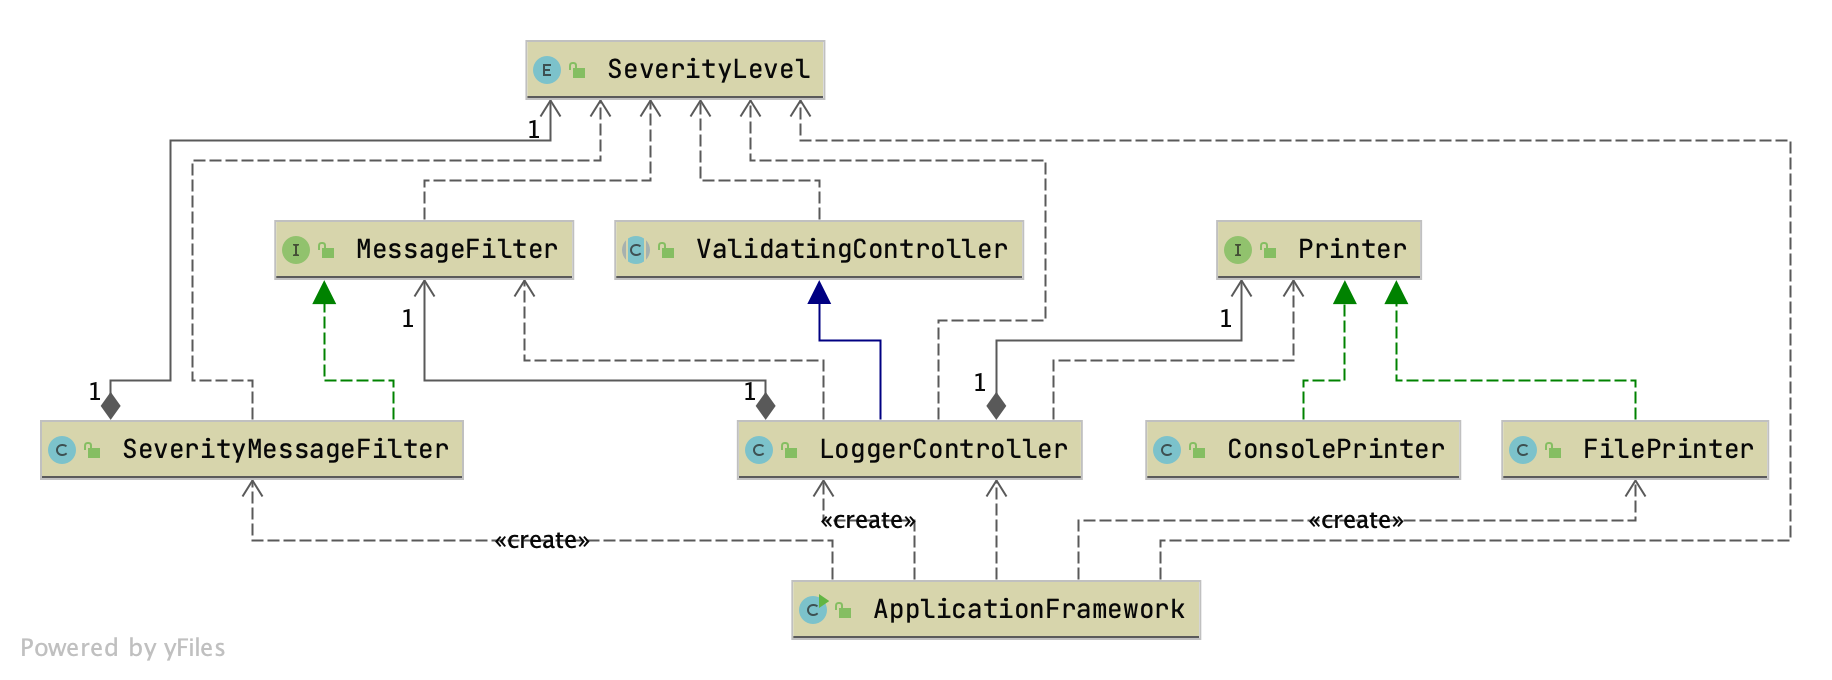
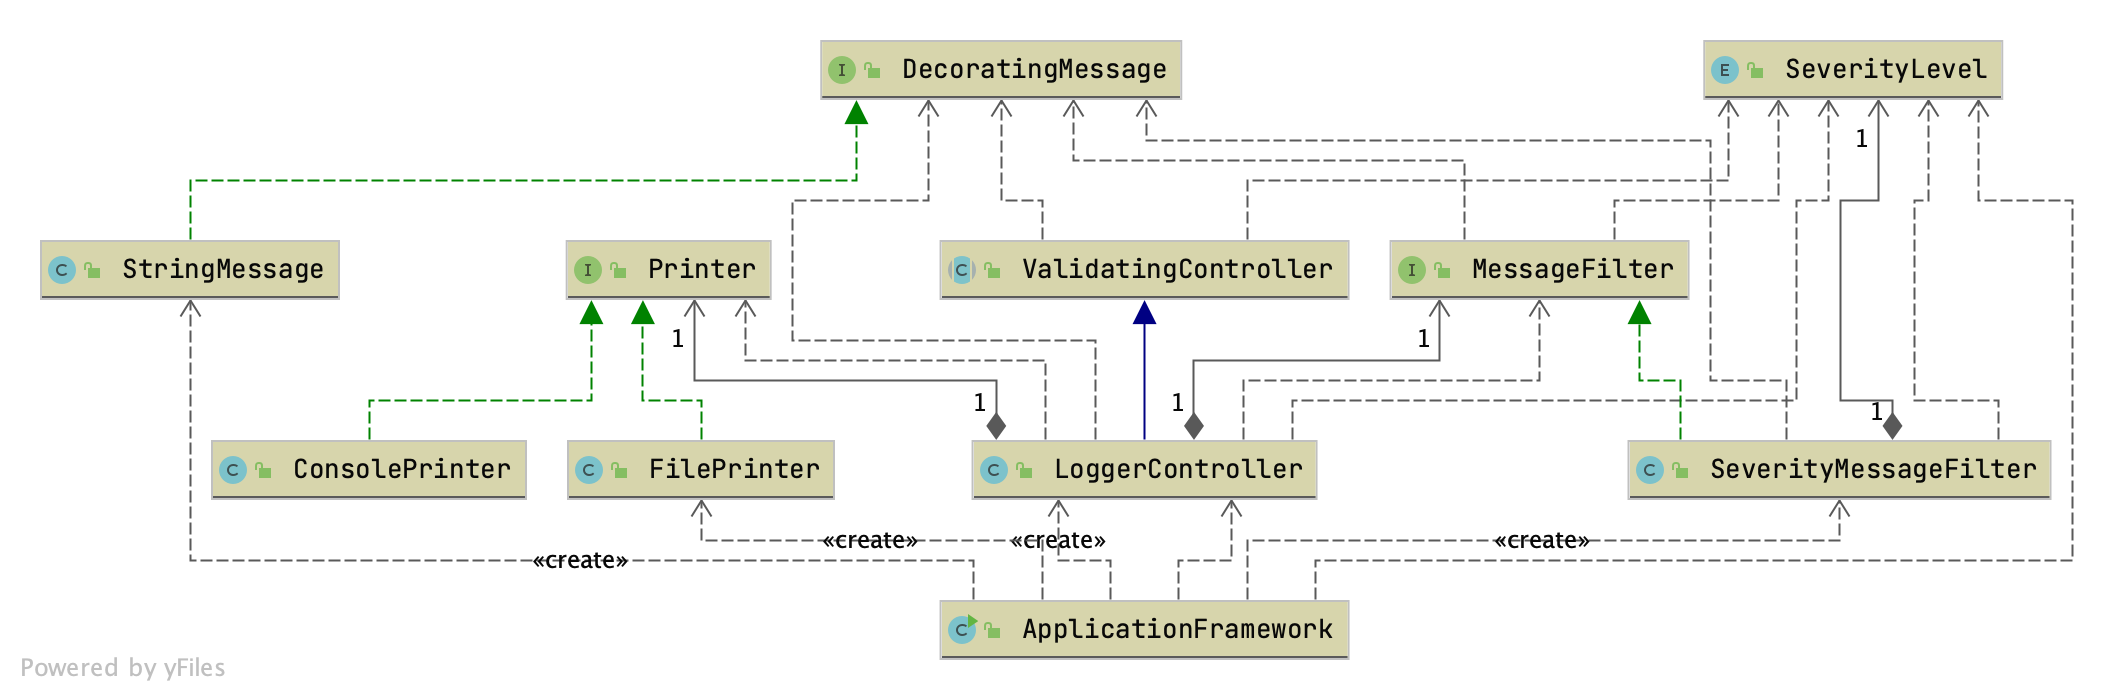
Add Command PD [GoF].

diff --git a/src/main/java/ooaddemo/LoggerController.java b/src/main/java/ooaddemo/LoggerController.java
@@ -16,11 +16,11 @@ public class LoggerController extends ValidatingController {
     }
 
     @Override
-    public void log(String message, SeverityLevel severity) {
+    public void log(DecoratingMessage message, SeverityLevel severity) {
         super.log(message, severity);
 
         if (filter.filter(message, severity)) {
-            printer.print(message);
+            printer.print(message.getDecoratedMessage());
         }
     }
 }

diff --git a/src/main/java/ooaddemo/SeverityMessageFilter.java b/src/main/java/ooaddemo/SeverityMessageFilter.java
@@ -8,7 +8,7 @@ public class SeverityMessageFilter implements MessageFilter {
     }
 
     @Override
-    public boolean filter(String message, SeverityLevel severity) {
+    public boolean filter(DecoratingMessage message, SeverityLevel severity) {
         return severity.compareTo(threshold) < 0;
     }
 }

diff --git a/src/main/java/ooaddemo/ValidatingController.java b/src/main/java/ooaddemo/ValidatingController.java
@@ -1,7 +1,7 @@
 package ooaddemo;
 
 public abstract class ValidatingController {
-    public void log(String message, SeverityLevel severity) {
+    public void log(DecoratingMessage message, SeverityLevel severity) {
         if (message == null) throw new IllegalArgumentException("null message");
     }
 }

diff --git a/src/main/java/ooaddemo/StringMessage.java b/src/main/java/ooaddemo/StringMessage.java
@@ -1,0 +1,14 @@
+package ooaddemo;
+
+public class StringMessage implements DecoratingMessage {
+    private String body;
+
+    public StringMessage(String body) {
+        this.body = body;
+    }
+
+    @Override
+    public String getDecoratedMessage() {
+        return "string: " + body;
+    }
+}

diff --git a/src/main/java/ooaddemo/MessageFilter.java b/src/main/java/ooaddemo/MessageFilter.java
@@ -1,5 +1,5 @@
 package ooaddemo;
 
 public interface MessageFilter {
-    boolean filter(String message, SeverityLevel severity);
+    boolean filter(DecoratingMessage message, SeverityLevel severity);
 }

diff --git a/src/main/java/ooaddemo/ApplicationFramework.java b/src/main/java/ooaddemo/ApplicationFramework.java
@@ -21,5 +21,6 @@ public class ApplicationFramework {
         }
          */
         //endregion
+        loggerController.log(new StringMessage("message"), SeverityLevel.ERROR);
     }
 }

diff --git a/src/main/java/ooaddemo/DecoratingMessage.java b/src/main/java/ooaddemo/DecoratingMessage.java
@@ -1,0 +1,5 @@
+package ooaddemo;
+
+public interface DecoratingMessage {
+    String getDecoratedMessage();
+}
